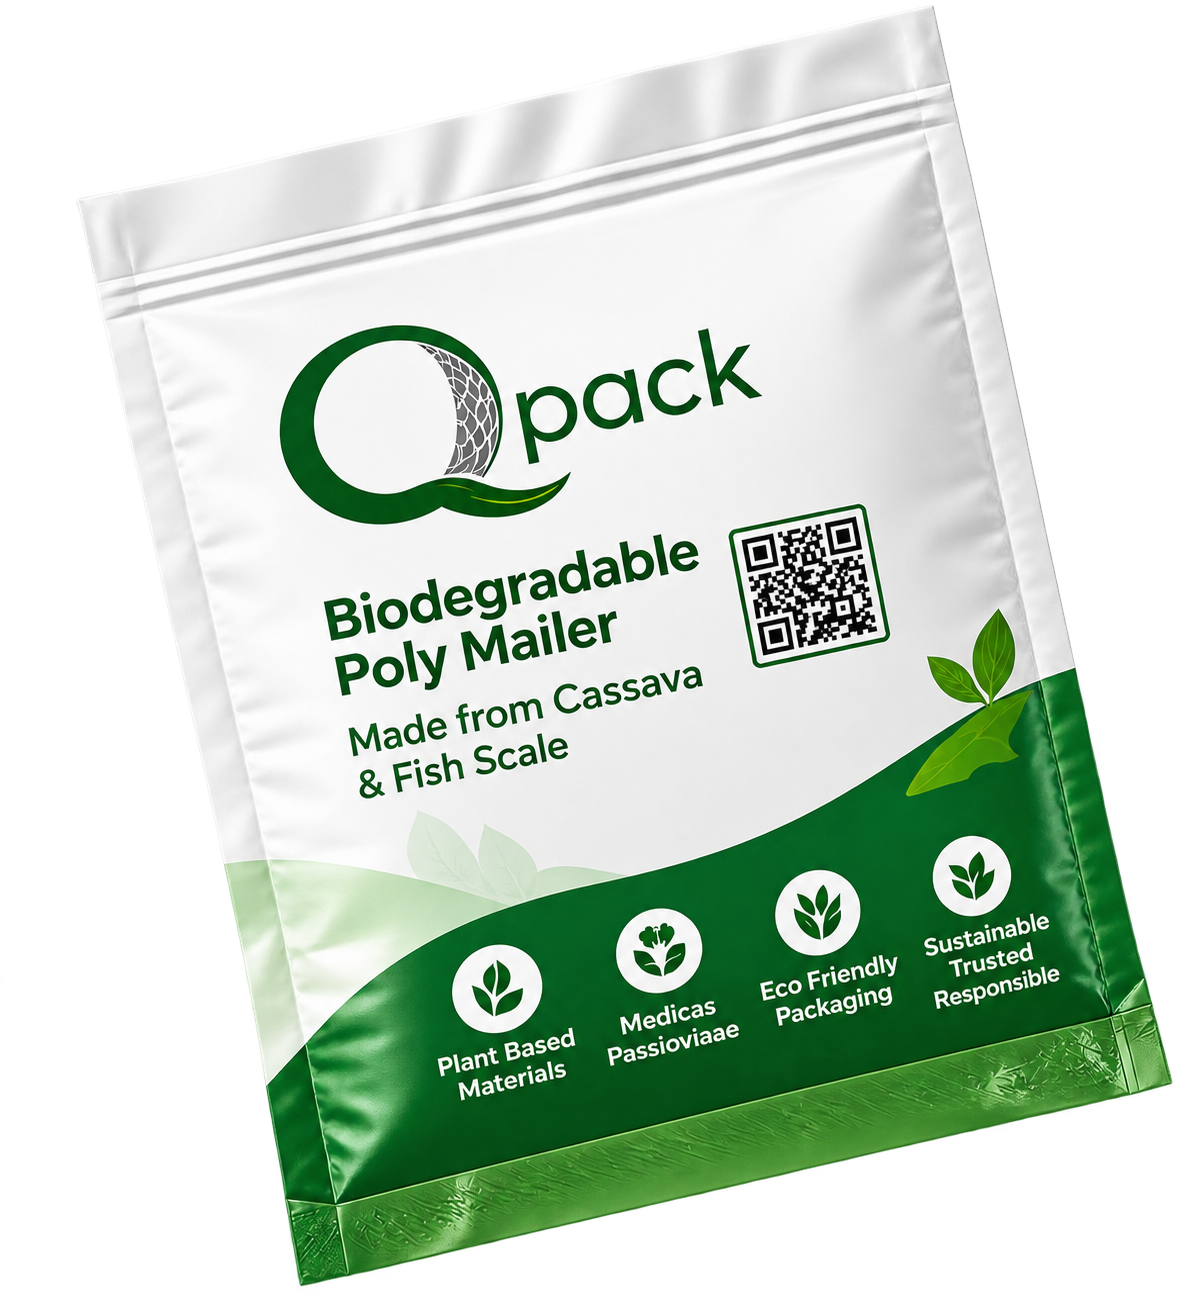
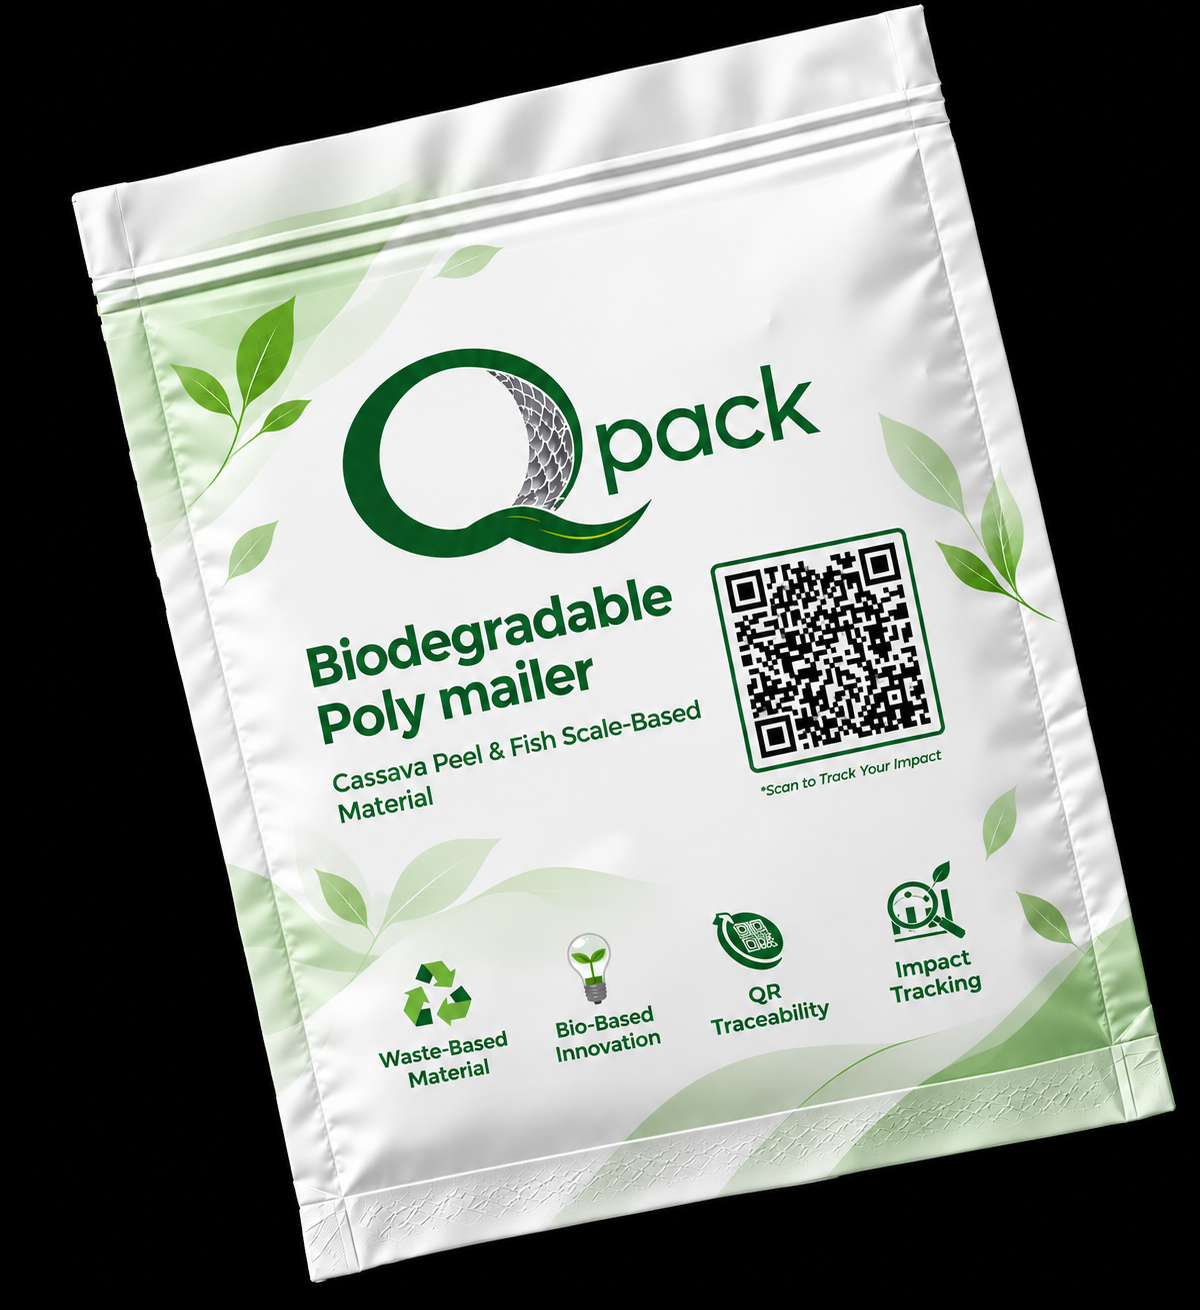
feat(ui): update final qpack packaging prototype

diff --git a/css/portal.css b/css/portal.css
@@ -307,13 +307,14 @@ body.portal-body {
   height: auto;
   max-height: 460px;
   object-fit: contain;
-  filter: drop-shadow(0 20px 30px rgba(14, 53, 12, 0.12));
-  transform: rotate(-3deg);
-  transition: transform 0.4s ease;
+  border-radius: 16px;
+  box-shadow: 0 16px 36px rgba(0, 0, 0, 0.15);
+  transition: transform 0.3s ease, box-shadow 0.3s ease;
 }
 
 .portal-hero__img:hover {
-  transform: rotate(0deg) scale(1.02);
+  transform: scale(1.015);
+  box-shadow: 0 20px 42px rgba(0, 0, 0, 0.2);
 }
 
 .portal-hero__badge-tag {

diff --git a/merchant/produk.html b/merchant/produk.html
@@ -57,13 +57,14 @@
       .product-card__thumb {
         width: 100%;
         height: 180px;
-        background: #f4f8f3;
+        background: #000000;
         display: flex;
         align-items: center;
         justify-content: center;
-        padding: 16px;
+        padding: 12px;
         border-bottom: 1px solid var(--color-border-light);
         position: relative;
+        overflow: hidden;
       }
       .product-card__thumb img {
         max-width: 100%;
